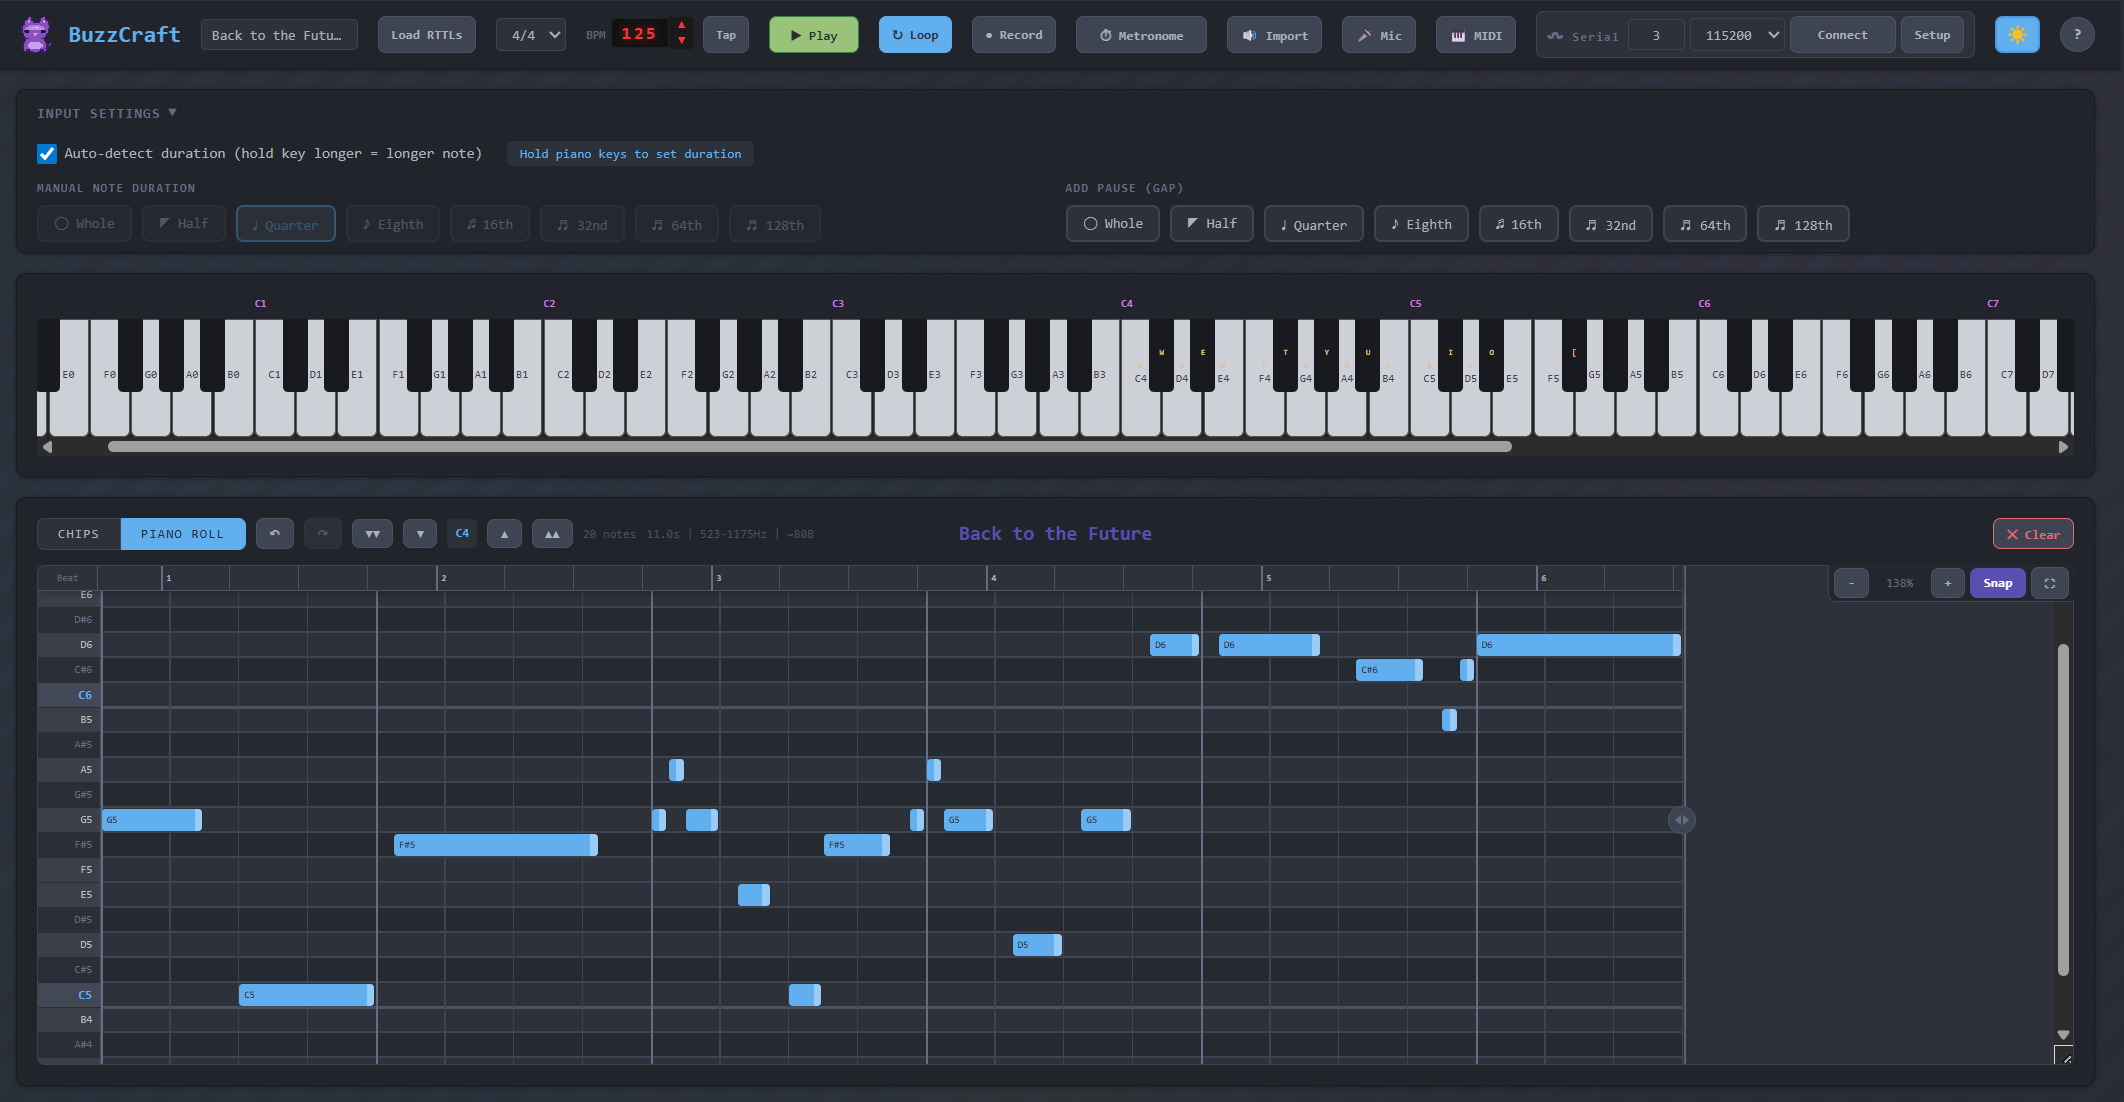
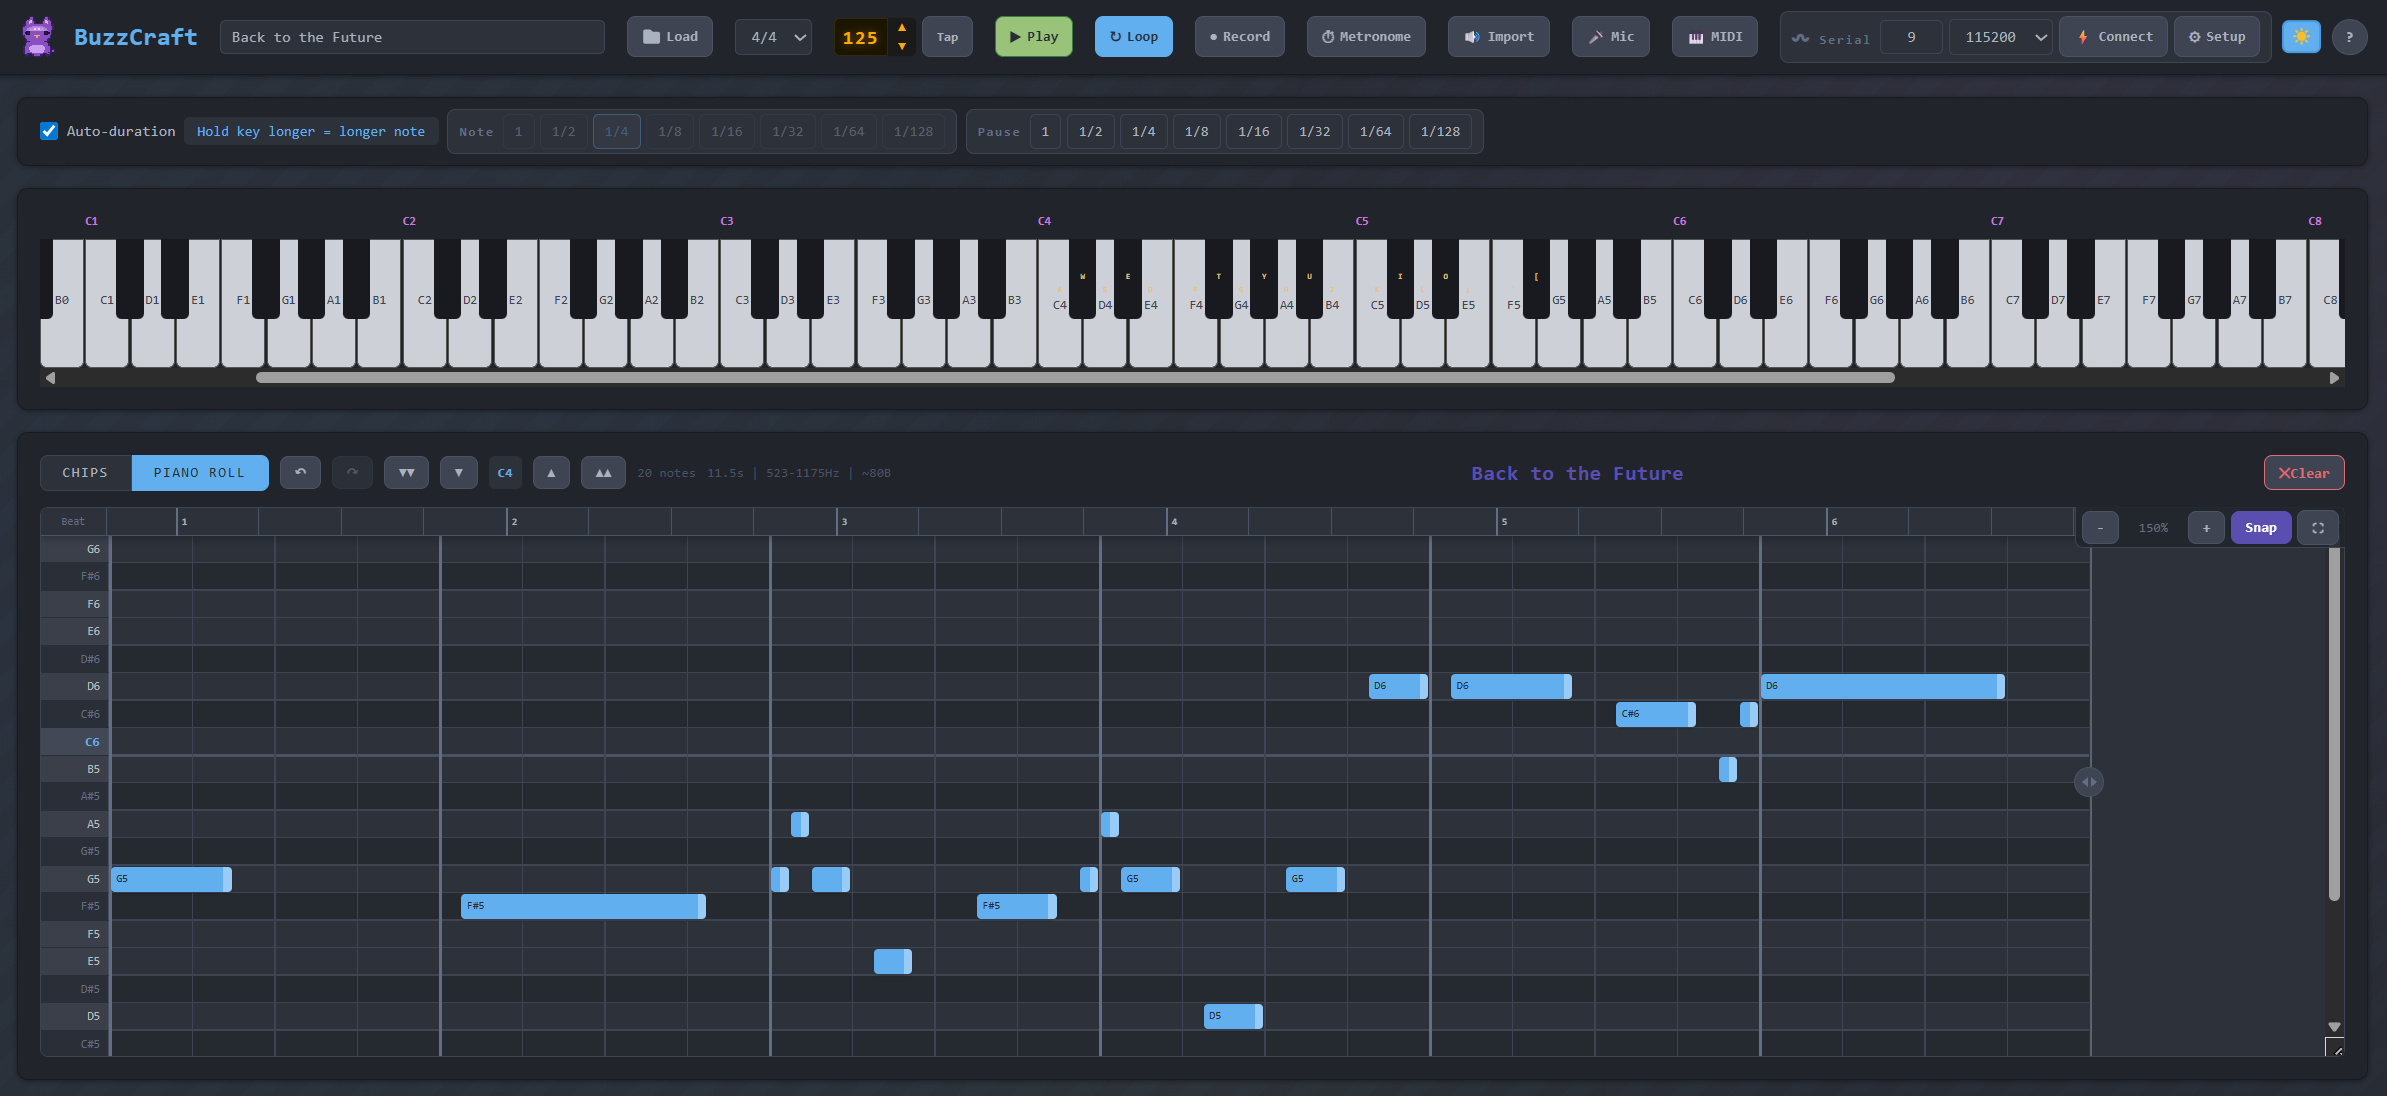
Clear resets preset to default, fix btn gap, link BuzzCraft title
- Clear all now resets preset search placeholder and melody name display
- Move inline-flex/gap to base .btn class so all buttons get icon+text spacing
- BuzzCraft h1 links to live demo at mrotnik.github.io/buzzcraft
- Update screenshot with current UI

diff --git a/buzzcraft.html b/buzzcraft.html
@@ -53,7 +53,7 @@ h1 { color: var(--accent); font-size: 1.4em; margin: 0; white-space: nowrap; }
   box-shadow: 0 1px 3px var(--section-shadow);
 }
 .top-bar-bpm { font-size: 0.9em; white-space: nowrap; display: inline-flex; align-items: center; gap: 4px; }
-.top-bar .btn { height: 30px; display: inline-flex; align-items: center; justify-content: center; white-space: nowrap; gap: 4px; }
+.top-bar .btn { height: 30px; justify-content: center; white-space: nowrap; }
 .top-bar-pinned {
   position: absolute; right: 20px; top: 50%; transform: translateY(-50%);
   display: flex; align-items: center; gap: 8px;
@@ -240,6 +240,7 @@ body.drag-overlay::after {
 .btn {
   padding: 9px 18px; border: 1px solid transparent; border-radius: 6px;
   cursor: pointer; font-family: monospace; font-size: 0.9em; font-weight: bold;
+  display: inline-flex; align-items: center; gap: 4px;
 }
 .btn-sm { padding: 5px 10px; font-size: 0.8em; }
 .btn-play  { background: var(--success); color: #fff; border-color: var(--success); }
@@ -772,7 +773,7 @@ kbd {
 
 <div class="top-bar" id="top-bar">
   <canvas id="dance-cat" width="32" height="32"></canvas>
-  <h1>BuzzCraft</h1>
+  <h1><a href="https://mrotnik.github.io/buzzcraft/" target="_blank" rel="noopener" style="color:inherit;text-decoration:none">BuzzCraft</a></h1>
   <span class="preset-search-wrap tip-down" data-tip="Search presets">
     <input type="text" class="melody-search" id="melody-search" placeholder="Search presets..." autocomplete="off">
     <div class="preset-dropdown" id="preset-dropdown"></div>
@@ -2047,9 +2048,12 @@ MP.renderSequence = function() {
   if (wasPlaying) MP.refreshPlayback();
   MP.autoSave();
   var nameEl = document.getElementById('melody-name');
-  if (nameEl) nameEl.textContent = MP.appState.melodyName || 'Melody';
+  if (nameEl) nameEl.textContent = MP.appState.melodyName || '';
   var searchEl = document.getElementById('melody-search');
-  if (searchEl && MP.appState.melodyName) { searchEl.placeholder = MP.appState.melodyName; searchEl.parentElement.dataset.tip = MP.appState.melodyName; }
+  if (searchEl) {
+    if (MP.appState.melodyName) { searchEl.placeholder = MP.appState.melodyName; searchEl.parentElement.dataset.tip = MP.appState.melodyName; }
+    else { searchEl.placeholder = 'Search presets...'; searchEl.parentElement.dataset.tip = 'Search presets'; }
+  }
 };
 
 MP.autoSave = function() {

diff --git a/js/ui.js b/js/ui.js
@@ -47,9 +47,12 @@ MP.renderSequence = function() {
   if (wasPlaying) MP.refreshPlayback();
   MP.autoSave();
   var nameEl = document.getElementById('melody-name');
-  if (nameEl) nameEl.textContent = MP.appState.melodyName || 'Melody';
+  if (nameEl) nameEl.textContent = MP.appState.melodyName || '';
   var searchEl = document.getElementById('melody-search');
-  if (searchEl && MP.appState.melodyName) { searchEl.placeholder = MP.appState.melodyName; searchEl.parentElement.dataset.tip = MP.appState.melodyName; }
+  if (searchEl) {
+    if (MP.appState.melodyName) { searchEl.placeholder = MP.appState.melodyName; searchEl.parentElement.dataset.tip = MP.appState.melodyName; }
+    else { searchEl.placeholder = 'Search presets...'; searchEl.parentElement.dataset.tip = 'Search presets'; }
+  }
 };
 
 MP.autoSave = function() {

diff --git a/css/base.css b/css/base.css
@@ -46,7 +46,7 @@ h1 { color: var(--accent); font-size: 1.4em; margin: 0; white-space: nowrap; }
   box-shadow: 0 1px 3px var(--section-shadow);
 }
 .top-bar-bpm { font-size: 0.9em; white-space: nowrap; display: inline-flex; align-items: center; gap: 4px; }
-.top-bar .btn { height: 30px; display: inline-flex; align-items: center; justify-content: center; white-space: nowrap; gap: 4px; }
+.top-bar .btn { height: 30px; justify-content: center; white-space: nowrap; }
 .top-bar-pinned {
   position: absolute; right: 20px; top: 50%; transform: translateY(-50%);
   display: flex; align-items: center; gap: 8px;

diff --git a/index.html b/index.html
@@ -15,7 +15,7 @@
 
 <div class="top-bar" id="top-bar">
   <canvas id="dance-cat" width="32" height="32"></canvas>
-  <h1>BuzzCraft</h1>
+  <h1><a href="https://mrotnik.github.io/buzzcraft/" target="_blank" rel="noopener" style="color:inherit;text-decoration:none">BuzzCraft</a></h1>
   <span class="preset-search-wrap tip-down" data-tip="Search presets">
     <input type="text" class="melody-search" id="melody-search" placeholder="Search presets..." autocomplete="off">
     <div class="preset-dropdown" id="preset-dropdown"></div>

diff --git a/css/controls.css b/css/controls.css
@@ -85,6 +85,7 @@
 .btn {
   padding: 9px 18px; border: 1px solid transparent; border-radius: 6px;
   cursor: pointer; font-family: monospace; font-size: 0.9em; font-weight: bold;
+  display: inline-flex; align-items: center; gap: 4px;
 }
 .btn-sm { padding: 5px 10px; font-size: 0.8em; }
 .btn-play  { background: var(--success); color: #fff; border-color: var(--success); }

diff --git a/README.md b/README.md
@@ -46,6 +46,7 @@ Create melodies with a piano keyboard and piano roll editor, then export as Ardu
 
 ### 🎛 Input
 - 🎛 **MIDI keyboard** — plug and play
+- 🎹 **MIDI file import** — drop monophonic .mid files to load melodies
 - 📂 **Audio import** — extract melody from WAV/MP3/OGG
 - 🎙 **Mic recording** — real-time pitch detection
 
@@ -103,7 +104,7 @@ Plain HTML/JS/CSS with zero dependencies. Source files are modular:
 ```
 js/          16 modules (state, constants, audio, audio-import, rtttl, codegen, ui, ...)
 css/         6 stylesheets (base, controls, keyboard, piano-roll, chips, dark)
-melodies/    58 RTTTL preset files
+melodies/    57 RTTTL preset files
 index.html   main HTML
 bundle.py    build script
 ```
